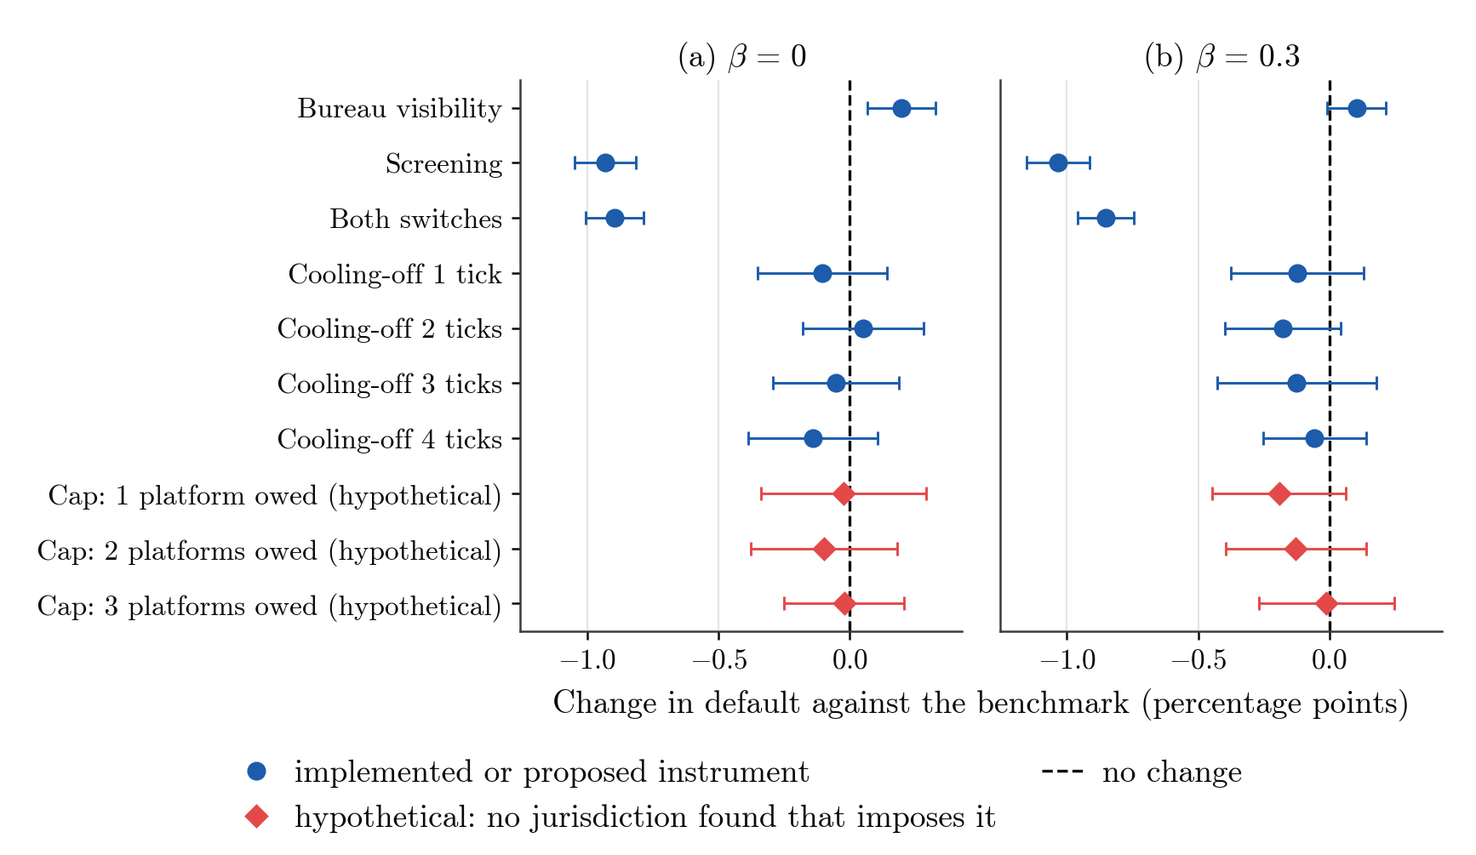
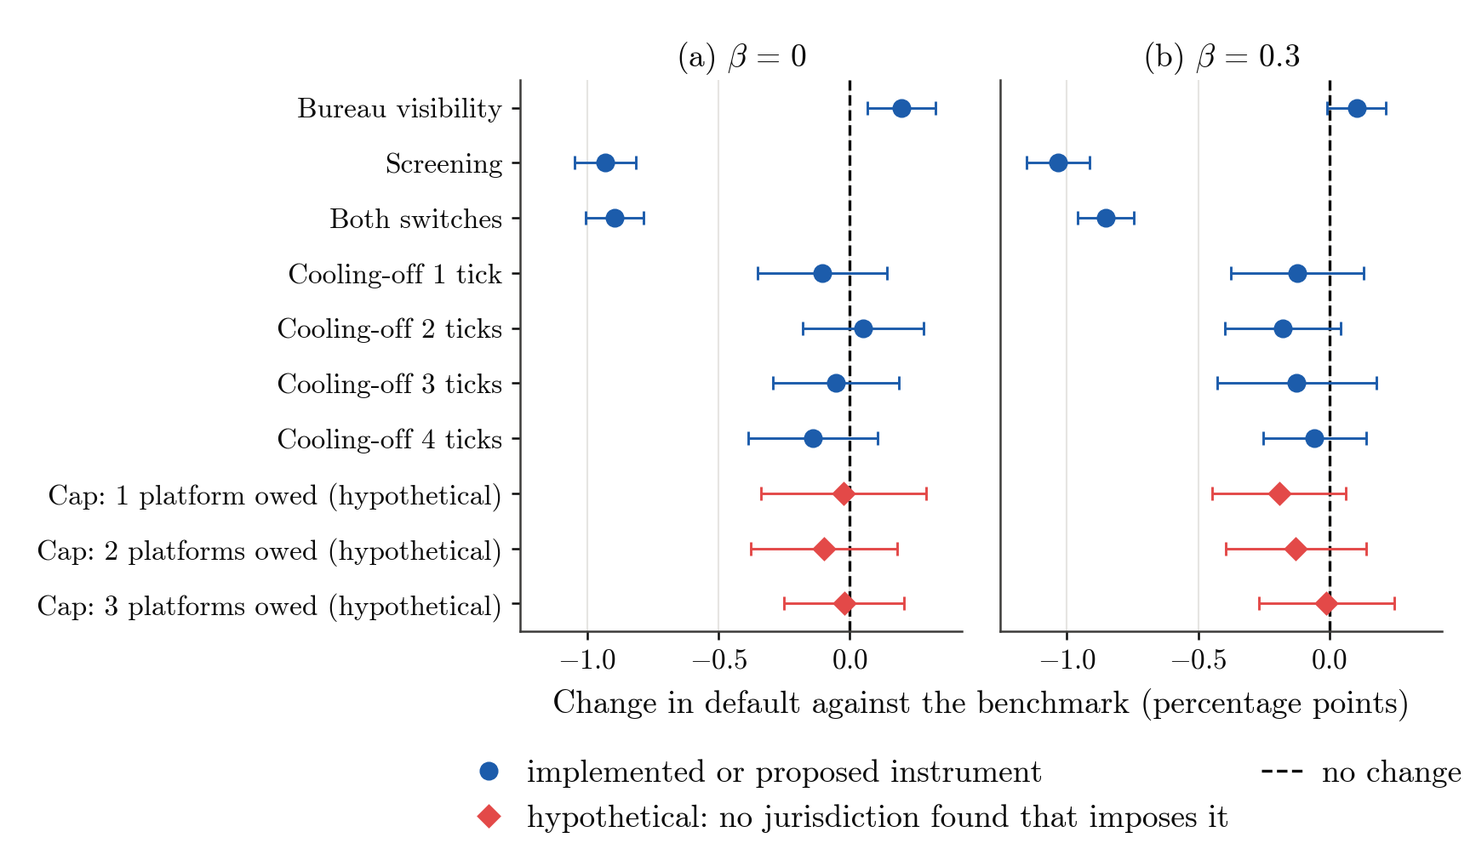
Final pass: prose slips from the cold read, second-round layout polish
Prose. The abstract's pronouns and order, an overclaim about what screening closes,
a clause that contradicted the group's definition, and a stray 'therefore' are fixed.
The conclusion fits one page and no longer carries the pointer to the RQ answers.
'Fixed population' names the 5,000 households every other run uses.

Layout. Hanging-indent identifier columns in the appendix tables, flush notes, ragged
algorithm lines, reference entries that no longer leave a URL line alone on a page,
Section 4 tables placed beside their discussion. 116 pages, no overfull boxes.

Changed region(s): [[0.1557, 0.8945, 0.8097, 0.9871], [0.9031, 0.8945, 0.9965, 0.9254], [0.7474, 0.8945, 0.8408, 0.9254]]

diff --git a/notebooks/scripts/build_results_tables.py b/notebooks/scripts/build_results_tables.py
@@ -373,7 +373,7 @@ def tab_stacking(rq1: pd.DataFrame) -> None:
         f"can owe two (--). Default: including the households placed in default at the start. "
         f"Replicate standard deviations are at most {sd_max * 100:.1f} "
         f"points for that share and {sd_def * 100:.2f} for default. Default with six platforms less "
-        f"one: {', '.join(contrasts)}, $\\pm$ one standard error, paired by seed.",
+        f"one: {', '.join(contrasts)}, $\\pm$~one standard error, paired by seed.",
         # a wider gap between the two blocks of columns
         "c" + " R{1.27cm}" * k + r" @{\hspace{14pt}}" + " R{1.27cm}" * k,
         f"& \\multicolumn{{{k}}}{{c}}{{\\textbf{{\\begin{{tabular}}[b]{{@{{}}c@{{}}}}Owing two or more platforms\\\\(\\% of households)\\end{{tabular}}}}}} "
@@ -536,9 +536,16 @@ def tab_bnpl_on_checks(rq0: pd.DataFrame) -> None:
 # The two scenario tables share their heads. At \small five columns of changes with their
 # standard errors do not fit the text width, so both are \footnotesize.
 SCEN_COLS = "H{4.2cm}R{2.0cm}R{2.3cm}R{2.3cm}R{2.3cm}"
-SCEN_HEAD = (r"& & \multicolumn{3}{c}{\textbf{Change from benchmark}} \\ \cmidrule(lr){3-5}"
-             "\n\\textbf{Outcome} & \\textbf{Benchmark} & \\textbf{Bureau visibility} & "
-             "\\textbf{Screening} & \\textbf{Both}")
+
+
+def scen_head(width: str) -> str:
+    """The scenario heads; the wrapped "Bureau visibility" is bottom-aligned by hb() in a column
+    of the given width, as in the other tables."""
+    return (r"& & \multicolumn{3}{c}{\textbf{Change from benchmark}} \\ \cmidrule(lr){3-5}"
+            f"\n\\textbf{{Outcome}} & \\textbf{{Benchmark}} & {hb('Bureau visibility', width)} & "
+            "\\textbf{Screening} & \\textbf{Both}")
+
+
 def tab_scenarios(rq3s: pd.DataFrame) -> None:
     """One table for RQ3: the benchmark level and each arm's change from it, at both betas."""
     keys = [("bench", "Benchmark"), ("bureau", "Bureau visibility"), ("afford", "Screening"),
@@ -607,7 +614,7 @@ def tab_scenarios(rq3s: pd.DataFrame) -> None:
         "traditional lender's. Holding: at the final tick. Quintiles are of per-capita income. "
         "Food and rent left unpaid: Table~\\ref{tab:scenarios-distress}.",
         SCEN_COLS,
-        SCEN_HEAD,
+        scen_head('2.3cm'),
         rows,
         size=r"\footnotesize",
         placement=FLOAT_NEAR,
@@ -655,7 +662,7 @@ def tab_scenarios_distress(rq3s: pd.DataFrame) -> None:
         "Runs record shortfalls as indicators, not Rand amounts.",
         # changes at three decimals need wider columns; the labels are short
         "H{3.3cm}R{2.0cm}R{2.65cm}R{2.65cm}R{2.65cm}",
-        SCEN_HEAD,
+        scen_head('2.65cm'),
         rows,
         size=r"\footnotesize",
         placement=FLOAT_NEAR,
@@ -720,13 +727,13 @@ def tab_distribution(rq0: pd.DataFrame) -> None:
         "limit for that household reduced or refused. Purchase: mean want-driven purchase, in 2017 "
         "Rands.",
         # \footnotesize: eight columns, two of changes with standard errors
-        "c R{1.4cm} R{1.25cm} R{2.25cm} R{2.25cm} R{1.5cm} R{1.25cm} R{1.6cm}",
+        "c R{1.4cm} R{1.25cm} R{2.25cm} R{2.25cm} R{1.4cm} R{1.25cm} R{1.75cm}",
         r"& \multicolumn{2}{c}{\textbf{No \ac{BNPL}}} & \multicolumn{2}{c}{\textbf{Change in default (pp)}} "
         r"& \multicolumn{3}{c}{\textbf{\ac{BNPL}, $\beta=0$}} \\ "
         r"\cmidrule(lr){2-3}\cmidrule(lr){4-5}\cmidrule(lr){6-8}"
         f"\n\\textbf{{Quintile}} & {hb('Default (\\%)', '1.4cm')} & {hb('Debt/ income', '1.25cm')} & "
-        f"${{\\beta=0}}$ & ${{\\beta=0.3}}$ & {hb('Holding (\\%)', '1.5cm')} & "
-        f"{hb('Limit binds (\\%)', '1.25cm')} & {hb('Purchase (R)', '1.6cm')}",
+        f"${{\\beta=0}}$ & ${{\\beta=0.3}}$ & {hb('Holding (\\%)', '1.4cm')} & "
+        f"{hb('Limit binds (\\%)', '1.25cm')} & {hb('Purchase (R)', '1.75cm')}",
         rows,
         size=r"\footnotesize",
         placement=FLOAT_NEAR,
@@ -939,7 +946,7 @@ def tab_robustness(rob: pd.DataFrame) -> None:
     for lam in (0.25, 0.5, 1.0):
         rows.append(row(f"{lam:.2f}", f"rob_limit{lam}", "rob_limit0.1"))
     rows += [group_row("Income-shock persistence (Submodel 1)", 3),
-             row("persistent until re-employment (default rule, seeds 50{,}000--)", "rob_amount_shortfall"),
+             row("persistent until re-employment (default rule, seeds 50{,}000--50{,}019)", "rob_amount_shortfall"),
              row("single-tick income shock", "rob_shock_single_tick", "rob_amount_shortfall")]
     N.update(
         rob_act_random=ms(a("rob_act_random").default_rate_final)[0],
@@ -1309,7 +1316,7 @@ def tab_effect_split(rq0: pd.DataFrame, screen: pd.DataFrame, redraw: pd.DataFra
         "rate; its runs with and without \\ac{BNPL} share the draw and the seed, so the standard error "
         "covers the population draw as well as simulation variance (Section~\\ref{sec:sim-params}). "
         "Households short from the start: surveyed income below committed expenditure, "
-        f"{num(N['split_short_n'])} households in the benchmark population and {num(sizes['min'])} to "
+        f"{num(N['split_short_n'])} households in the fixed population and {num(sizes['min'])} to "
         f"{num(sizes['max'])} in the draws. Wage-income screen less benchmark, paired by seed: {note_diff}.",
         "H{3.6cm}R{2.6cm}R{2.9cm}R{2.9cm}",
         r"& \multicolumn{3}{c}{\textbf{Effect on default during the run (pp)}} \\ \cmidrule(lr){2-4}"

diff --git a/thesis/main.tex b/thesis/main.tex
@@ -62,7 +62,9 @@
 \usepackage[round,sort]{natbib}
 \setcitestyle{aysep={,}}
 % natbib typesets agsm URLs with \textit, which breaks on % and _; read them with \url.
-\renewcommand{\harvardurl}{Available at:~\url}
+% No page break just before the URL line (pdfTeX's \vadjust pre puts the penalty above it), so
+% "Available at:" never starts a page cut off from the rest of its entry.
+\renewcommand{\harvardurl}{\vadjust pre{\nobreak}Available at:~\url}
 \usepackage{hyperref}
 % Links work but carry no coloured border or text colour, on screen or in print.
 \hypersetup{hidelinks, pdftitle={Buy Now, Pay Later and Household Credit Distress in South
@@ -79,7 +81,9 @@
 % In a longtable the note goes in a \multicolumn row instead.
 \newcommand{\tabnote}[1]{\par\vspace{2pt}\noindent\begin{minipage}{\linewidth}\footnotesize\sloppy #1\end{minipage}\par\vspace{4pt}}
 \usepackage{etoolbox}
-\AtBeginEnvironment{algorithmic}{\small}   % compact, as in the reference paper
+% Compact, as in the reference paper; ragged right, so a wrapped statement keeps even word
+% spaces (\Comment uses \hfill and stays flush right).
+\AtBeginEnvironment{algorithmic}{\small\raggedright}
 \algrenewcommand\alglinenumber[1]{}
 \captionsetup[algorithm]{labelsep=space}
 % acronym v1.50 ends each printonlyused entry with \\, which leaves a blank line between
@@ -196,11 +200,11 @@ defaults when an instalment on any credit, \ac{BNPL} included, is more than 90 d
 due. In the model \ac{BNPL} raises default mainly among the 3.6\% of households short from the
 start, whose surveyed income, possibly understated, does not cover food and rent. The rise comes
 mostly from those the lender refuses and the platforms accept. For other households it is small.
-Over all households, default rises by 1.0 percentage point, from 14.4\%. About
-half of the rise remains when the platforms lend only to households with income from
-work. When each comparison draws a new population, the rise is 1.1 points. It
-is not detectable when \ac{BNPL} cannot be used against a cash shortfall. Peer influence raises
-\ac{BNPL} borrowing without detectably changing the effect. Without peer influence, bureau
+Over all households, default rises by 1.0 percentage point, from 14.4\%. The rise is not
+detectable when \ac{BNPL} cannot be used against a cash shortfall. About half of it remains when
+the platforms lend only to households with income from work. When each comparison draws a new
+population, the rise is 1.1 points. Peer influence raises \ac{BNPL} borrowing without detectably
+changing the rise. Without peer influence, bureau
 visibility raises default by 0.20 points, since in the model a refused household has no other
 source of credit. Screening \ac{BNPL} with the lender's test lowers default by 0.9 to 1.0 points.
 Both leave more households short of food and rent, screening only without peer influence. The

diff --git a/thesis/chapters/04_results.tex b/thesis/chapters/04_results.tex
@@ -22,6 +22,8 @@ pooled effect is $1.10 \pm 0.07$.
 % results/summary/results_numbers.json (blocks: Tables tab:baseline-arms, tab:access, the threshold
 % control and tab:effect).
 
+\input{chapters/generated/tab_baseline_arms}
+
 The effect runs through households that use \ac{BNPL} to bridge cash shortfalls and then fall
 more than 90 days past due on it. On the seeds of Table~\ref{tab:baseline-arms}, $0.94 \pm 0.01$ of the 1.08
 points are households in default on \ac{BNPL} alone. The remaining $0.14 \pm 0.11$, defaults that
@@ -56,7 +58,7 @@ Under the wage-income screen the platforms lend only to households with wage inc
 income from employment or self-employment. The arm lowers the effect by $0.58 \pm 0.12$ points, to
 $+0.50 \pm 0.09$ (Table~\ref{tab:effect-split}), so about half of the effect depends on the
 platforms lending to households with no wage income. Of the 55 the lender never lends to, 18
-still default, all among the 19 with wage income, which need not cover food and rent.
+still default, all among the 19 with wage income.
 % 0.58 +/- 0.12 and +0.50 +/- 0.09: split_screen_less_bench_all and split_screen_all (+ _se),
 % results/summary/results_numbers.json (seeds 10,000-10,019, beta = 0, paired by seed with the
 % no-BNPL arm of rq0). 19 and 18 (18.15 of the 55): never_lent_every_seed_wage and
@@ -64,10 +66,12 @@ still default, all among the 19 with wage income, which need not cover food and 
 % (notebooks/scripts/check_effect_split.py); 2,802 of the 4,142 eligible households pass
 % (eligible_screen, eligible_bench). Half: 0.58 and 0.50 of the 1.08 points.
 
+\input{chapters/generated/tab_effect_split}
+
 In the redrawn population the effect is $+1.13 \pm 0.06$ points, of which $+0.97 \pm 0.02$ are
 households short from the start (Table~\ref{tab:effect-split}). It does not differ detectably
-from the pooled $1.03 \pm 0.06$, and without \ac{BNPL} default during the run averages 14.37\%
-over the draws, as in the benchmark population.
+from the pooled $1.03 \pm 0.06$. Without \ac{BNPL}, default during the run averages 14.37\%
+over the draws, as in the fixed population.
 % +1.13 +/- 0.06 and +0.97 +/- 0.02: split_redraw_all and split_redraw_short (+ _se),
 % results_numbers.json (100 replicates, seeds 110,000-110,099, beta = 0, one population draw per
 % replicate). The standard deviation of the effect is 0.57 points across draws and 0.48 across
@@ -99,9 +103,6 @@ value of $\beta$ ($-$R$0.10 \pm 0.25$ million and $+$R$0.15 \pm 0.25$ million).
 % zero_savings_change_beta0 (+ _se), lending_change_* (+ _se), results_numbers.json (rq0, seeds
 % 10,000-10,019).
 
-\input{chapters/generated/tab_baseline_arms}
-
-\input{chapters/generated/tab_effect_split}
 
 \subsection{Peer Influence}
 \label{sec:results-beta}

diff --git a/thesis/chapters/appendix_c_supplementary.tex b/thesis/chapters/appendix_c_supplementary.tex
@@ -77,10 +77,10 @@ Table~\ref{tab:further-caveats} indexes the limitations.
 \begingroup
 \setlength{\tabcolsep}{4pt}
 \small
-\begin{longtable}{L{3.1cm}L{6.2cm}L{4.1cm}}
+\begin{longtable}{@{}L{3.1cm}L{6.5cm}L{4.45cm}@{}}
 \caption{Index of limitations}
 \label{tab:further-caveats} \\
-\multicolumn{3}{p{13.4cm}}{\footnotesize Every limitation the thesis records. The first fifteen
+\multicolumn{3}{@{}p{\linewidth}@{}}{\footnotesize Every limitation the thesis records. The first fifteen
 bound a central claim; the body argues each at the location in the right-hand column, which also
 names the claim it bounds, and the statement column adds only figures the body does not give. The
 remaining ten do not bound a central claim, and the right-hand
@@ -96,7 +96,7 @@ column states what each bounds.} \\
 \endhead
 \bottomrule
 \endfoot
-\multicolumn{3}{l}{\emph{Bounding a central claim, argued in the body}} \\
+\multicolumn{3}{@{}l}{\emph{Bounding a central claim, argued in the body}} \\
 Default is a model construct & A household defaults when an instalment on any debt, traditional or \ac{BNPL}, is more than 90 days past due, the bureau construct; no external figure measures it for households. Its level rests on the starting profile, the threshold and arrears persistence & Sections~\ref{sec:sequence}, \ref{sec:lim-calibration}, \ref{sec:data-validation} and~\ref{sec:results-robustness}; bounds the level of default \\
 \addlinespace
 \ac{BNPL} arrears count as default & Default counts \ac{BNPL} arrears, and the bureau records every default although in the benchmark it does not record \ac{BNPL}. Most of the \ac{BNPL} effect comes through this route; Appendix~\ref{app:calibration} gives the effect under the earlier rule, which did not count them & Sections~\ref{sec:sequence} and~\ref{sec:results-injection}; bounds the size and sign of the \ac{BNPL} effect \\
@@ -129,7 +129,7 @@ Refused households have no fallback & A refused household has no other source of
 \addlinespace
 Income at the gate & Both affordability tests use surveyed income, which the model does not reduce during unemployment & Section~\ref{sec:asymmetry}; bounds the RQ3 results, including the fall in default under screening \\
 \addlinespace
-\multicolumn{3}{l}{\emph{Other limitations, recorded here}} \\
+\multicolumn{3}{@{}l}{\emph{Other limitations, recorded here}} \\
 \ac{FinScope} vintage & No 2017 wave exists, so the 2019 wave supplies the six
 financial-inclusion flags for a population otherwise fixed at 2017. The imported variables are
 categorical and need no deflation & Banked status gates \ac{BNPL} eligibility, so the 82.8\%

diff --git a/thesis/chapters/06_conclusion.tex b/thesis/chapters/06_conclusion.tex
@@ -12,9 +12,8 @@ carry them into default. For households not short from the start the effect is s
 without peer influence, and $1.13 \pm 0.06$ in the redrawn population. About half of the effect
 depends on the platforms lending to households with no wage income
 (Section~\ref{sec:results-injection}). Peer influence adds want-driven borrowing without
-detectably changing the effect. Bureau visibility tightens only the lender's test and leaves the shortfall path open,
-while screening closes it by applying that test to every \ac{BNPL} request. Sections~\ref{sec:calibration-answer}, \ref{sec:results-answer}
-and~\ref{sec:scenarios-answer} answer RQ1 to RQ3.
+detectably changing the effect. Bureau visibility tightens only the lender's test, so the platforms still lend to the
+households it refuses, while screening applies that test to every \ac{BNPL} request.
 % Concentrated: the 55 the lender never lends to account for 0.92 of the 1.08 points
 % (short_group_lending.json; split_bench_short, results_numbers.json; Section 4.1).
 % 1.03 +/- 0.06: beta0_effect_pooled (results_numbers.json, Section 4.1); 1.13 +/- 0.06:
@@ -32,13 +31,13 @@ their shared assumptions. Default follows the bureau's 90-day construct, and its
 hire wage is imputed, and hires move income between quintiles (Section~\ref{sec:lim-calibration}).
 
 For the reporting arrangements, the model gives only the sign of one channel, the lender's
-affordability test. Through it, bureau visibility raises default by
+test. Through it, bureau visibility raises default by
 $0.20 \pm 0.07$ points without peer influence, because the households the lender refuses have no
 other source of credit in the model. The model's rules favour that rise
 (Section~\ref{sec:scenarios}). Screening's fall in default lies almost all in the poorest
 quintile, but without peer influence more households go short of food
-and rent. The runs record no amount unpaid, so whether screening leaves households better off is
-open (Table~\ref{tab:scenarios-distress}).
+and rent. The runs record no amount unpaid (Table~\ref{tab:scenarios-distress}), so whether screening
+leaves households better off is open.
 % 0.20 +/- 0.07: scen_bureau_beta0_default (tab:scenarios, Section 5); quintiles and food and rent:
 % tab:scenarios and tab:scenarios-distress.
 

diff --git a/notebooks/scripts/build_results_figures.py b/notebooks/scripts/build_results_figures.py
@@ -139,7 +139,7 @@ def fig_stacking(rq1: pd.DataFrame) -> None:
     axes[2].set_title("(c) Default rate")
     axes[0].set_ylabel("Share of all households (%)")
     axes[1].set_ylabel("Share of households that\never held BNPL (%)")
-    axes[2].set_ylabel("Share of all households (%)")
+    axes[2].set_ylabel("Population default rate (%)")
     for ax in axes:
         ax.set_xlabel("Number of BNPL platforms")
         ax.set_xticks(range(1, 7))
@@ -389,12 +389,17 @@ def fig_scenarios_appendix(rq3: pd.DataFrame, rq3s: pd.DataFrame) -> None:
                        Line2D([0], [0], color=RED, marker="D", lw=0, ms=4.2),
                        Line2D([0], [0], color=INK, ls="--", lw=0.8)],
                  ["implemented or proposed instrument", "hypothetical: no jurisdiction found that imposes it",
-                  "no change"], ncol=2, handlelength=1.4)
+                  "no change"], ncol=2, handlelength=1.4, columnspacing=1.0)
     fig.tight_layout(rect=(0, 0.165, 1, 1), w_pad=1.2)
     # One x-axis label for both panels, just under the tick labels and above the legend.
     r = fig.canvas.get_renderer()
     y_ticks = min(ax.xaxis.get_tightbbox(r).y0 for ax in axes) / fig.bbox.height
     x_mid = (axes[0].get_position().x0 + axes[1].get_position().x1) / 2
+    # The legend is centred on the two panels, as the axis label is, not on the whole figure,
+    # as far as the figure's right edge allows (it is about as wide as the two panels).
+    legend = fig.legends[-1]
+    half = legend.get_window_extent(r).width / fig.bbox.width / 2
+    legend.set_bbox_to_anchor((min(x_mid, 1 - half), 0.0), transform=fig.transFigure)
     fig.text(x_mid, y_ticks - 0.01, "Change in default against the benchmark (percentage points)", ha="center",
              va="top", fontsize=plt.rcParams["axes.labelsize"])
     save(fig, "fig_scenarios_appendix")

diff --git a/notebooks/scripts/check_results_tables.py b/notebooks/scripts/check_results_tables.py
@@ -267,7 +267,7 @@ def check_effect_split(rq0: pd.DataFrame) -> None:
     assert abs(num["split_redraw_separation_rate_mean"] - ro.shock_prob.mean()) < 1e-6
     expect("effect_split", t, f"{int(runs[runs.label == 'redraw_off'].n_short.min())} to "
            f"{int(runs[runs.label == 'redraw_off'].n_short.max())} in the draws")
-    expect("effect_split", t, f"{num['split_short_n']} households in the benchmark population")
+    expect("effect_split", t, f"{num['split_short_n']} households in the fixed population")
     assert num["split_short_n"] == 182 and num["split_short_at_risk"] == 120
     assert num["split_eligible_screen"] == screen.n_bnpl_eligible.mean()
     checked += 3
@@ -477,7 +477,7 @@ def check_prose() -> None:
     # "does not differ detectably from the pooled" estimate, and the baseline level over the draws.
     gap_all = num["split_redraw_all"] - num["beta0_effect_pooled"]
     assert abs(gap_all) < 2 * math.hypot(num["split_redraw_all_se"], num["beta0_effect_pooled_se"])
-    expect_p("ch4 redraw", c4, f"from the pooled ${unsigned(pmj(num, 'beta0_effect_pooled'))}$, and without")
+    expect_p("ch4 redraw", c4, f"from the pooled ${unsigned(pmj(num, 'beta0_effect_pooled'))}$. Without")
     level = f"{num['split_redraw_baseline_new_default_mean'] * 100:.2f}"
     assert level == f"{num['baseline_default_during'] * 100:.2f}" if "baseline_default_during" in num else True
     expect_p("ch4 redraw", c4, f"default during the run averages {level}\\%")

diff --git a/thesis/chapters/appendix_g_pseudo_main.tex b/thesis/chapters/appendix_g_pseudo_main.tex
@@ -152,7 +152,8 @@ itself.
     \IfThen{the bureau shows $i$ as defaulted}{\Return 0}
     \State $\text{new} \gets \mathrm{PMT}(\text{amount},\ 0.28,\ 25)$ \Comment{unsecured terms}
     \State $\text{visible} \gets r_i / \chi$ \Comment{traditional service, which the bureau shows}
-    \IfThen{$\ind^{\text{bur}}$}{$\text{visible} \gets \text{visible} + o_i / \chi$ \Comment{\textbf{Bureau visibility:} \ac{BNPL} enters the test}}
+    \LineComment{\textbf{Bureau visibility:} \ac{BNPL} enters the test}
+    \IfThen{$\ind^{\text{bur}}$}{$\text{visible} \gets \text{visible} + o_i / \chi$}
     \IfThen{$\text{new} > \max(\rho(Y_i) - \text{visible},\ 0)$}{\Return 0 \Comment{refused at the gate}}
     \State \Return amount \Comment{granted in full}
 \EndFunction
@@ -208,7 +209,8 @@ request.
 \Function{Request}{$p$, $i$, amount}
     \IfThen{$i$ is cut off at $p$}{\Return 0}
     \State $\text{amount} \gets \min(\text{amount},\ \bar o)$ \Comment{per-order cap}
-    \State $\text{amount} \gets \min\bigl(\text{amount},\ (L_{ip} - B_{ip}) \cdot N / (N - 1)\bigr)$ \Comment{rolling limit, receivable terms}
+    \LineComment{rolling limit, receivable terms}
+    \State $\text{amount} \gets \min\bigl(\text{amount},\ (L_{ip} - B_{ip}) \cdot N / (N - 1)\bigr)$
     \IfThen{$\text{amount} \leq 0$}{\Return 0}
     \State Open an agreement at $p$: principal amount, instalment amount$/N$, $N - 1$ instalments remaining, opened at $t$
     \State \Return amount

diff --git a/thesis/chapters/appendix_b_specification.tex b/thesis/chapters/appendix_b_specification.tex
@@ -8,10 +8,10 @@ Table~\ref{tab:design-concepts} gives the model's treatment of the eleven \ac{OD
 % \small, as in the other appendix longtables.
 \begingroup
 \small
-\begin{longtable}{L{2.9cm}L{7.3cm}L{3.2cm}}
+\begin{longtable}{@{}L{2.9cm}L{7.7cm}L{3.2cm}@{}}
 \caption{\ac{ODD} design concepts and design exclusions}
 \label{tab:design-concepts} \\
-\multicolumn{3}{p{13.4cm}}{\footnotesize The eleven design concepts of the \ac{ODD} protocol~\citep{grimm2020odd}, each with the model's treatment and the literature that grounds it; ``None'' in the source column marks a modelling choice with no external anchor. The final row lists the eight mechanisms excluded by design and the reason for each.} \\
+\multicolumn{3}{@{}p{\linewidth}@{}}{\footnotesize The eleven design concepts of the \ac{ODD} protocol~\citep{grimm2020odd}, each with the model's treatment and the literature that grounds it; ``None'' in the source column marks a modelling choice with no external anchor. The final row lists the eight mechanisms excluded by design and the reason for each.} \\
 \toprule
 \textbf{Concept} & \textbf{Treatment} & \textbf{Source} \\
 \midrule

diff --git a/thesis/chapters/appendix_e_matching.tex b/thesis/chapters/appendix_e_matching.tex
@@ -110,6 +110,7 @@ Figure~\ref{fig:pop-fidelity} compares the 5{,}000-agent resample with its sourc
 \caption{National rates for the six imputed indicators}
 \label{tab:imputation_errors}
 \tabnote{The national rate of each imputed indicator in three populations: the \ac{FinScope} 2019 target, weighted by its survey weight; the 10{,}841-household synthetic population after matching, weighted by \ac{NIDS} survey weight; and the unweighted 5{,}000-agent resample used in the simulation. The difference column is synthetic less \ac{FinScope}, in percentage points, computed before rounding; the tolerance is 3 points (Table~\ref{tab:validation}). Agreement is expected by construction, so the table tests the implementation only (P6, Appendix~\ref{app:match-problems}).}
+\small
 \begin{tabular}{lrrrr}
 \toprule
 \textbf{Imputed indicator} & \textbf{FinScope 2019} & \textbf{Synthetic} & \textbf{Agents} & \textbf{Difference} \\

diff --git a/thesis/chapters/03_calibration.tex b/thesis/chapters/03_calibration.tex
@@ -90,7 +90,7 @@ draw, not uncertainty in the data or the assumptions.
 \begingroup\setlength{\tabcolsep}{4pt}\footnotesize
 \begin{tabular}{H{3.45cm}L{4.5cm}L{1.0cm}rll}
 \toprule
-\textbf{Experiment} & \textbf{What varies} & \textbf{$\beta$} & \textbf{Reps} & \textbf{Seeds} & \textbf{Table} \\
+\textbf{Experiment} & \textbf{What varies} & $\boldsymbol{\beta}$ & \textbf{Reps} & \textbf{Seeds} & \textbf{Table} \\
 \midrule
 Baseline and injection & \ac{BNPL} off and on & 0, 0.3 & 20 & 10{,}000 & \ref{tab:baseline-arms} \\
 \addlinespace
@@ -473,6 +473,7 @@ change tested biases the difference as well as the level. Section~\ref{sec:resul
 varies the debt-service construction, the starting profile and who holds it, the payment order,
 arrears persistence or the rule that food and rent cannot be cut.
 
+\clearpage
 \subsection{Answer to RQ1}
 \label{sec:calibration-answer}
 

diff --git a/thesis/chapters/appendix_d_variables.tex b/thesis/chapters/appendix_d_variables.tex
@@ -9,7 +9,7 @@ follows Algorithm~\ref{alg:init}. All monetary values are in 2017 Rands
 \begingroup
 \setlength{\tabcolsep}{3pt}
 \small
-\begin{longtable}{L{3.0cm}L{3.2cm}L{3.8cm}L{2.0cm}L{1.3cm}}
+\begin{longtable}{H{3.0cm}H{3.2cm}L{3.8cm}L{2.0cm}L{1.3cm}}
 \caption{Source field, rule and missing-data treatment for every agent field}
 \label{tab:var-map} \\
 \multicolumn{5}{p{13.3cm}}{\footnotesize Every agent field of
@@ -217,6 +217,7 @@ lower bound; residual-income capacity is $\rho(Y) = Y$ less that amount. Tests a
 implementation against two hand-computed checks from the regulation's Table~1 (R2{,}000 $\to$
 R881.00; R10{,}000 $\to$ R1{,}505.38). Appendix~\ref{app:gate} discusses its application to household
 income.}
+\small
 \begin{tabular}{rrr}
 \toprule
 \textbf{Lower bound (R)} & \textbf{Fixed (R)} & \textbf{Plus \% above bound} \\
